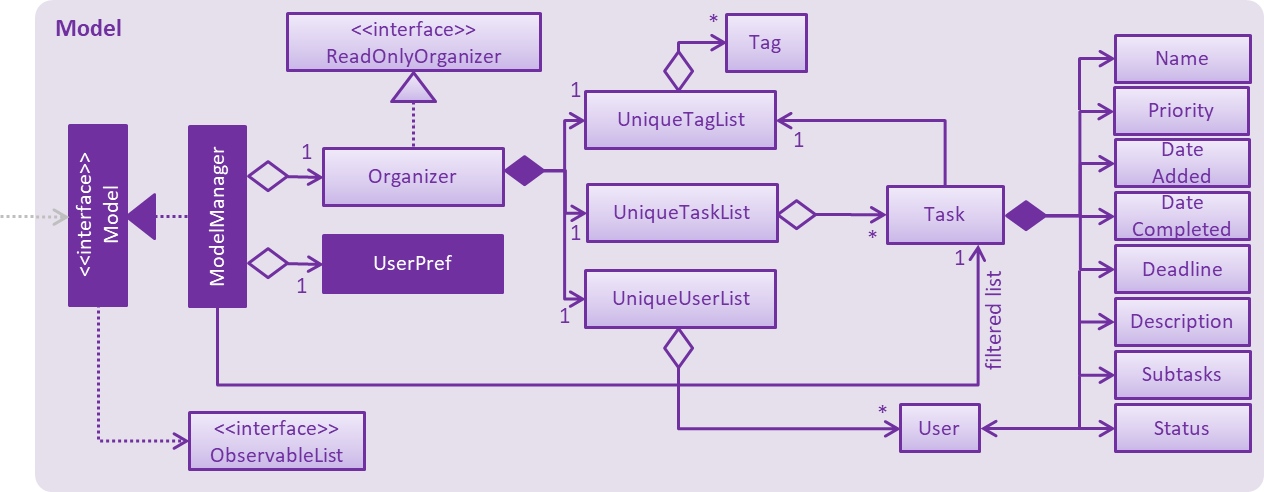
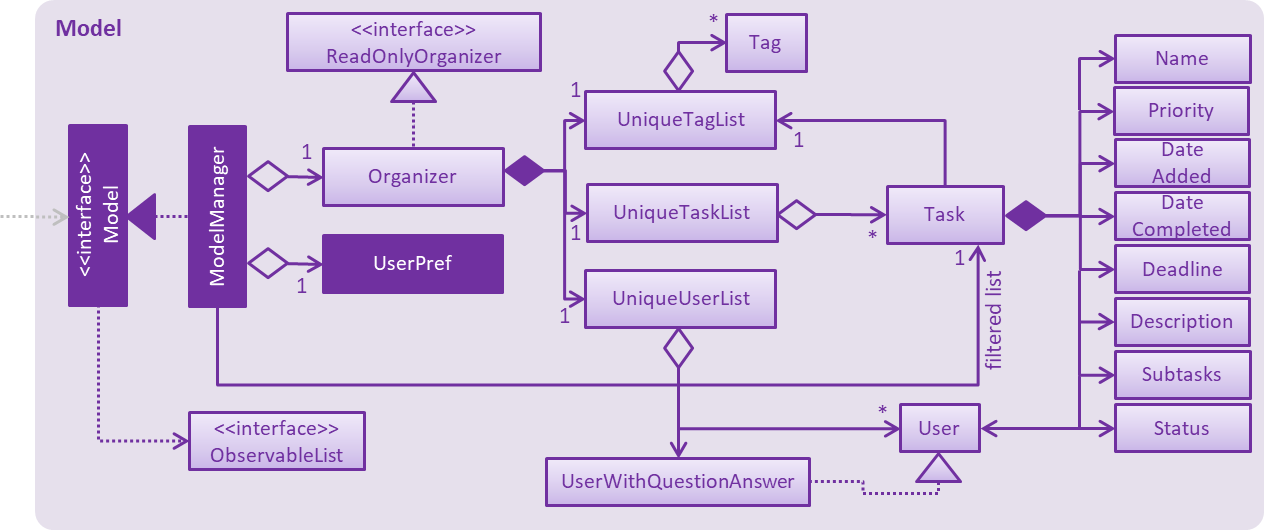
Rebuild pages at 9f4e989e3492eb305d1090c50a4e121480be69e9

diff --git a/UserGuide.html b/UserGuide.html
@@ -43,18 +43,15 @@
 <li><a href="#viewing-help-code-help-code">4.1. Viewing help : <code>help</code></a></li>
 <li><a href="#signing-up-code-signup-code-or-code-su-code-code-since-v1-3-code">4.2. Signing up: <code>signup</code> or <code>su</code> <code>[since v1.3]</code></a></li>
 <li><a href="#logging-in-code-login-code-or-code-in-code-code-since-v1-4-code">4.3. Logging in: <code>login</code> or <code>in</code> <code>[since v1.4]</code></a></li>
-<li><a href="#logging-out-code-logout-code-or-code-out-code-code-since-v1-4-code">4.4. Logging out: <code>logout</code> or <code>out</code> <code>[since v1.4]</code></a>
-<ul class="sectlevel3">
-<li><a href="#retrieving-question-for-user-s-password-code-forgotpassword-code-or-code-fp-code-code-since-v1-4-code">4.4.1. Retrieving question for user&#8217;s password: <code>forgotpassword</code> or <code>fp</code> <code>[since v1.4]</code></a></li>
-<li><a href="#answering-question-code-answer-code-or-code-ans-code-code-since-v1-4-code">4.4.2. Answering question: <code>answer</code> or <code>ans</code> <code>[since v1.4]</code></a></li>
+<li><a href="#adding-question-code-addqa-code-code-since-v1-4-code">4.4. Adding question: <code>addqa</code> <code>[since v1.4]</code></a></li>
+<li><a href="#retrieving-question-for-user-s-password-code-forgotpassword-code-or-code-fp-code-code-since-v1-4-code">4.5. Retrieving question for user&#8217;s password: <code>forgotpassword</code> or <code>fp</code> <code>[since v1.4]</code></a></li>
+<li><a href="#retrieving-question-for-user-s-password-code-forgotpassword-code-or-code-fp-code-code-since-v1-4-code-2">4.6. Retrieving question for user&#8217;s password: <code>forgotpassword</code> or <code>fp</code> <code>[since v1.4]</code></a></li>
+<li><a href="#answering-question-code-answer-code-or-code-ans-code-code-since-v1-4-code">4.7. Answering question: <code>answer</code> or <code>ans</code> <code>[since v1.4]</code></a></li>
+<li><a href="#deleting-an-account-code-coming-in-v2-0-code">4.8. Deleting an account <code>[coming in v2.0]</code></a></li>
+<li><a href="#exiting-the-program-code-exit-code">4.9. Exiting the program : <code>exit</code></a></li>
 </ul>
 </li>
-<li><a href="#task-management-features">4.5. Task Management Features</a></li>
-<li><a href="#deleting-an-account-code-coming-in-v2-0-code">4.6. Deleting an account <code>[coming in v2.0]</code></a></li>
-<li><a href="#exiting-the-program-code-exit-code">4.7. Exiting the program : <code>exit</code></a></li>
-</ul>
-</li>
-<li><a href="#task-management-features-2">5. Task Management Features</a>
+<li><a href="#task-management-features">5. Task Management Features</a>
 <ul class="sectlevel2">
 <li><a href="#adding-a-task-code-add-code-or-code-a-code">5.1. Adding a task: <code>add</code> or <code>a</code></a></li>
 <li><a href="#listing-all-tasks-code-list-code-or-code-l-code">5.2. Listing all tasks : <code>list</code> or <code>l</code></a></li>
@@ -101,7 +98,7 @@
 <li><a href="#command-summary">10. Command Summary</a>
 <ul class="sectlevel2">
 <li><a href="#user-features-2">10.1. User Features</a></li>
-<li><a href="#task-management-features-3">10.2. Task Management Features</a></li>
+<li><a href="#task-management-features-2">10.2. Task Management Features</a></li>
 <li><a href="#subtask-management-features-2">10.3. Subtask Management Features</a></li>
 <li><a href="#calendar-features-2">10.4. Calendar Features</a></li>
 <li><a href="#prioritask-features-2">10.5. PrioriTask Features</a></li>
@@ -270,7 +267,7 @@ A warning message will be displayed in the result display box if your <span clas
 </div>
 </li>
 <li>
-<p>Proceed to <a href="#using-prioritask">Section 3, &#8220;Using PrioriTask&#8221;</a> to learn more about using the application, or head straight to <a href="#task-management-features">Section 4.5, &#8220;Task Management Features&#8221;</a> to start managing your tasks.</p>
+<p>Proceed to <a href="#using-prioritask">Section 3, &#8220;Using PrioriTask&#8221;</a> to learn more about using the application, or head straight to <a href="#task-management-features">Section 5, &#8220;Task Management Features&#8221;</a> to start managing your tasks.</p>
 </li>
 </ol>
 </div>
@@ -488,19 +485,37 @@ A warning message will be displayed in the result display box if your <span clas
 </div>
 </div>
 <div class="sect2">
-<h3 id="logging-out-code-logout-code-or-code-out-code-code-since-v1-4-code"><a class="link" href="#logging-out-code-logout-code-or-code-out-code-code-since-v1-4-code">4.4. Logging out: <code>logout</code> or <code>out</code> <code>[since v1.4]</code></a></h3>
+<h3 id="adding-question-code-addqa-code-code-since-v1-4-code"><a class="link" href="#adding-question-code-addqa-code-code-since-v1-4-code">4.4. Adding question: <code>addqa</code> <code>[since v1.4]</code></a></h3>
 <div class="paragraph">
-<p>Logout of PrioriTask<br></p>
+<p>Adding a question for password retrieval<br></p>
 </div>
 <div class="exampleblock format">
 <div class="content">
 <div class="paragraph">
-<p><span class="format-title">Format:</span> <code>logout</code></p>
+<p><span class="format-title">Format:</span> <code>addqa q/QUESTION a/ANSWER</code></p>
 </div>
 </div>
 </div>
-<div class="sect3">
-<h4 id="retrieving-question-for-user-s-password-code-forgotpassword-code-or-code-fp-code-code-since-v1-4-code"><a class="link" href="#retrieving-question-for-user-s-password-code-forgotpassword-code-or-code-fp-code-code-since-v1-4-code">4.4.1. Retrieving question for user&#8217;s password: <code>forgotpassword</code> or <code>fp</code> <code>[since v1.4]</code></a></h4>
+<div class="exampleblock example">
+<div class="content">
+<div class="paragraph">
+<p><span class="example-title">Examples:</span></p>
+</div>
+<div class="ulist">
+<ul>
+<li>
+<p><span class="example">`addqa q/are you male? a/yes</span></p>
+</li>
+<li>
+<p><span class="example"><code>addqa q/are you female? a/yes</code></span></p>
+</li>
+</ul>
+</div>
+</div>
+</div>
+</div>
+<div class="sect2">
+<h3 id="retrieving-question-for-user-s-password-code-forgotpassword-code-or-code-fp-code-code-since-v1-4-code"><a class="link" href="#retrieving-question-for-user-s-password-code-forgotpassword-code-or-code-fp-code-code-since-v1-4-code">4.5. Retrieving question for user&#8217;s password: <code>forgotpassword</code> or <code>fp</code> <code>[since v1.4]</code></a></h3>
 <div class="paragraph">
 <p>Retrieve question for user&#8217;s password<br></p>
 </div>
@@ -529,8 +544,38 @@ A warning message will be displayed in the result display box if your <span clas
 </div>
 </div>
 </div>
-<div class="sect3">
-<h4 id="answering-question-code-answer-code-or-code-ans-code-code-since-v1-4-code"><a class="link" href="#answering-question-code-answer-code-or-code-ans-code-code-since-v1-4-code">4.4.2. Answering question: <code>answer</code> or <code>ans</code> <code>[since v1.4]</code></a></h4>
+<div class="sect2">
+<h3 id="retrieving-question-for-user-s-password-code-forgotpassword-code-or-code-fp-code-code-since-v1-4-code-2"><a class="link" href="#retrieving-question-for-user-s-password-code-forgotpassword-code-or-code-fp-code-code-since-v1-4-code-2">4.6. Retrieving question for user&#8217;s password: <code>forgotpassword</code> or <code>fp</code> <code>[since v1.4]</code></a></h3>
+<div class="paragraph">
+<p>Retrieve question for user&#8217;s password<br></p>
+</div>
+<div class="exampleblock format">
+<div class="content">
+<div class="paragraph">
+<p><span class="format-title">Format:</span> `forgotpassword u/USERNAME `</p>
+</div>
+</div>
+</div>
+<div class="exampleblock example">
+<div class="content">
+<div class="paragraph">
+<p><span class="example-title">Examples:</span></p>
+</div>
+<div class="ulist">
+<ul>
+<li>
+<p><span class="example"><code>forgotpassword u/patrick</code></span></p>
+</li>
+<li>
+<p><span class="example"><code>forgotpassword u/mary</code></span></p>
+</li>
+</ul>
+</div>
+</div>
+</div>
+</div>
+<div class="sect2">
+<h3 id="answering-question-code-answer-code-or-code-ans-code-code-since-v1-4-code"><a class="link" href="#answering-question-code-answer-code-or-code-ans-code-code-since-v1-4-code">4.7. Answering question: <code>answer</code> or <code>ans</code> <code>[since v1.4]</code></a></h3>
 <div class="paragraph">
 <p>Answer a user&#8217;s question to retrieve the password<br></p>
 </div>
@@ -559,19 +604,14 @@ A warning message will be displayed in the result display box if your <span clas
 </div>
 </div>
 </div>
-</div>
 <div class="sect2">
-<h3 id="task-management-features"><a class="link" href="#task-management-features">4.5. Task Management Features</a></h3>
-
-</div>
-<div class="sect2">
-<h3 id="deleting-an-account-code-coming-in-v2-0-code"><a class="link" href="#deleting-an-account-code-coming-in-v2-0-code">4.6. Deleting an account <code>[coming in v2.0]</code></a></h3>
+<h3 id="deleting-an-account-code-coming-in-v2-0-code"><a class="link" href="#deleting-an-account-code-coming-in-v2-0-code">4.8. Deleting an account <code>[coming in v2.0]</code></a></h3>
 <div class="paragraph">
 <p><em>{ Describe the command function }</em></p>
 </div>
 </div>
 <div class="sect2">
-<h3 id="exiting-the-program-code-exit-code"><a class="link" href="#exiting-the-program-code-exit-code">4.7. Exiting the program : <code>exit</code></a></h3>
+<h3 id="exiting-the-program-code-exit-code"><a class="link" href="#exiting-the-program-code-exit-code">4.9. Exiting the program : <code>exit</code></a></h3>
 <div class="paragraph">
 <p>Exits the program.<br></p>
 </div>
@@ -586,7 +626,7 @@ A warning message will be displayed in the result display box if your <span clas
 </div>
 </div>
 <div class="sect1">
-<h2 id="task-management-features-2"><a class="link" href="#task-management-features-2">5. Task Management Features</a></h2>
+<h2 id="task-management-features"><a class="link" href="#task-management-features">5. Task Management Features</a></h2>
 <div class="sectionbody">
 <div class="paragraph">
 <p><em>{ To explain what a task management feature is. }</em></p>
@@ -1673,7 +1713,7 @@ e.g. <span class="example-no-box"><code>signup u/patrick p/pat12351</code></span
 </div>
 </div>
 <div class="sect2">
-<h3 id="task-management-features-3"><a class="link" href="#task-management-features-3">10.2. Task Management Features</a></h3>
+<h3 id="task-management-features-2"><a class="link" href="#task-management-features-2">10.2. Task Management Features</a></h3>
 <div class="ulist">
 <ul>
 <li>
@@ -1781,7 +1821,7 @@ e.g.<span class="example-no-box"><code>toggle-subtask 3 2</code></span></p>
 </div>
 <div id="footer">
 <div id="footer-text">
-Last updated 2018-04-04 04:47:44 UTC
+Last updated 2018-04-04 08:19:51 UTC
 </div>
 </div>
 </body>

diff --git a/LearningOutcomes.html b/LearningOutcomes.html
@@ -561,7 +561,7 @@ class gives some examples of how to use <em>Equivalence Partitions</em>, <em>Bou
 </div>
 <div id="footer">
 <div id="footer-text">
-Last updated 2018-04-04 04:47:44 UTC
+Last updated 2018-04-04 08:19:51 UTC
 </div>
 </div>
 </body>

diff --git a/UsingCoveralls.html b/UsingCoveralls.html
@@ -115,7 +115,7 @@ If you have not set up Travis CI, see <a href="UsingTravis.html">UsingTravis.ado
 </div>
 <div id="footer">
 <div id="footer-text">
-Last updated 2018-04-04 04:47:44 UTC
+Last updated 2018-04-04 08:19:51 UTC
 </div>
 </div>
 </body>

diff --git a/UsingGradle.html b/UsingGradle.html
@@ -261,7 +261,7 @@ See <code>build.gradle</code> &#8594; <code>allprojects</code> &#8594; <code>dep
 </div>
 <div id="footer">
 <div id="footer-text">
-Last updated 2018-04-04 04:47:44 UTC
+Last updated 2018-04-04 08:19:51 UTC
 </div>
 </div>
 </body>

diff --git a/UsingNetlify.html b/UsingNetlify.html
@@ -142,7 +142,7 @@ The publish directory is the directory in which the built HTML documentation res
 </div>
 <div id="footer">
 <div id="footer-text">
-Last updated 2018-04-04 04:47:44 UTC
+Last updated 2018-04-04 08:19:51 UTC
 </div>
 </div>
 </body>

diff --git a/team/johndoe.html b/team/johndoe.html
@@ -483,7 +483,7 @@ If the <code>redoStack</code> is empty, then there are no other commands left to
 </div>
 <div id="footer">
 <div id="footer-text">
-Last updated 2018-04-04 04:47:44 UTC
+Last updated 2018-04-04 08:19:51 UTC
 </div>
 </div>
 </body>

diff --git a/UsingTravis.html b/UsingTravis.html
@@ -299,7 +299,7 @@ Suggested change: Remove the codacy badge from <code>README</code>.</p>
 </div>
 <div id="footer">
 <div id="footer-text">
-Last updated 2018-04-04 04:47:44 UTC
+Last updated 2018-04-04 08:19:51 UTC
 </div>
 </div>
 </body>

diff --git a/UsingCheckstyle.html b/UsingCheckstyle.html
@@ -103,7 +103,7 @@ Restart the IDE to complete the installation.</p>
 </div>
 <div id="footer">
 <div id="footer-text">
-Last updated 2018-04-04 04:47:44 UTC
+Last updated 2018-04-04 08:19:51 UTC
 </div>
 </div>
 </body>

diff --git a/DeveloperGuide.html b/DeveloperGuide.html
@@ -2537,7 +2537,7 @@ Expected: Similar to previous.</p>
 </div>
 <div id="footer">
 <div id="footer-text">
-Last updated 2018-04-04 04:47:44 UTC
+Last updated 2018-04-04 08:19:51 UTC
 </div>
 </div>
 </body>

diff --git a/TestDocument.html b/TestDocument.html
@@ -178,7 +178,7 @@ This should be on a new line.</p>
 </div>
 <div id="footer">
 <div id="footer-text">
-Last updated 2018-04-04 04:47:44 UTC
+Last updated 2018-04-04 08:19:51 UTC
 </div>
 </div>
 </body>

diff --git a/AboutUs.html b/AboutUs.html
@@ -97,7 +97,7 @@ Responsibilities: UI</p>
 </div>
 <div id="footer">
 <div id="footer-text">
-Last updated 2018-04-04 04:47:44 UTC
+Last updated 2018-04-04 08:19:51 UTC
 </div>
 </div>
 </body>

diff --git a/UsingAppVeyor.html b/UsingAppVeyor.html
@@ -174,7 +174,7 @@ grant access:</p>
 </div>
 <div id="footer">
 <div id="footer-text">
-Last updated 2018-04-04 04:47:44 UTC
+Last updated 2018-04-04 08:19:51 UTC
 </div>
 </div>
 </body>
